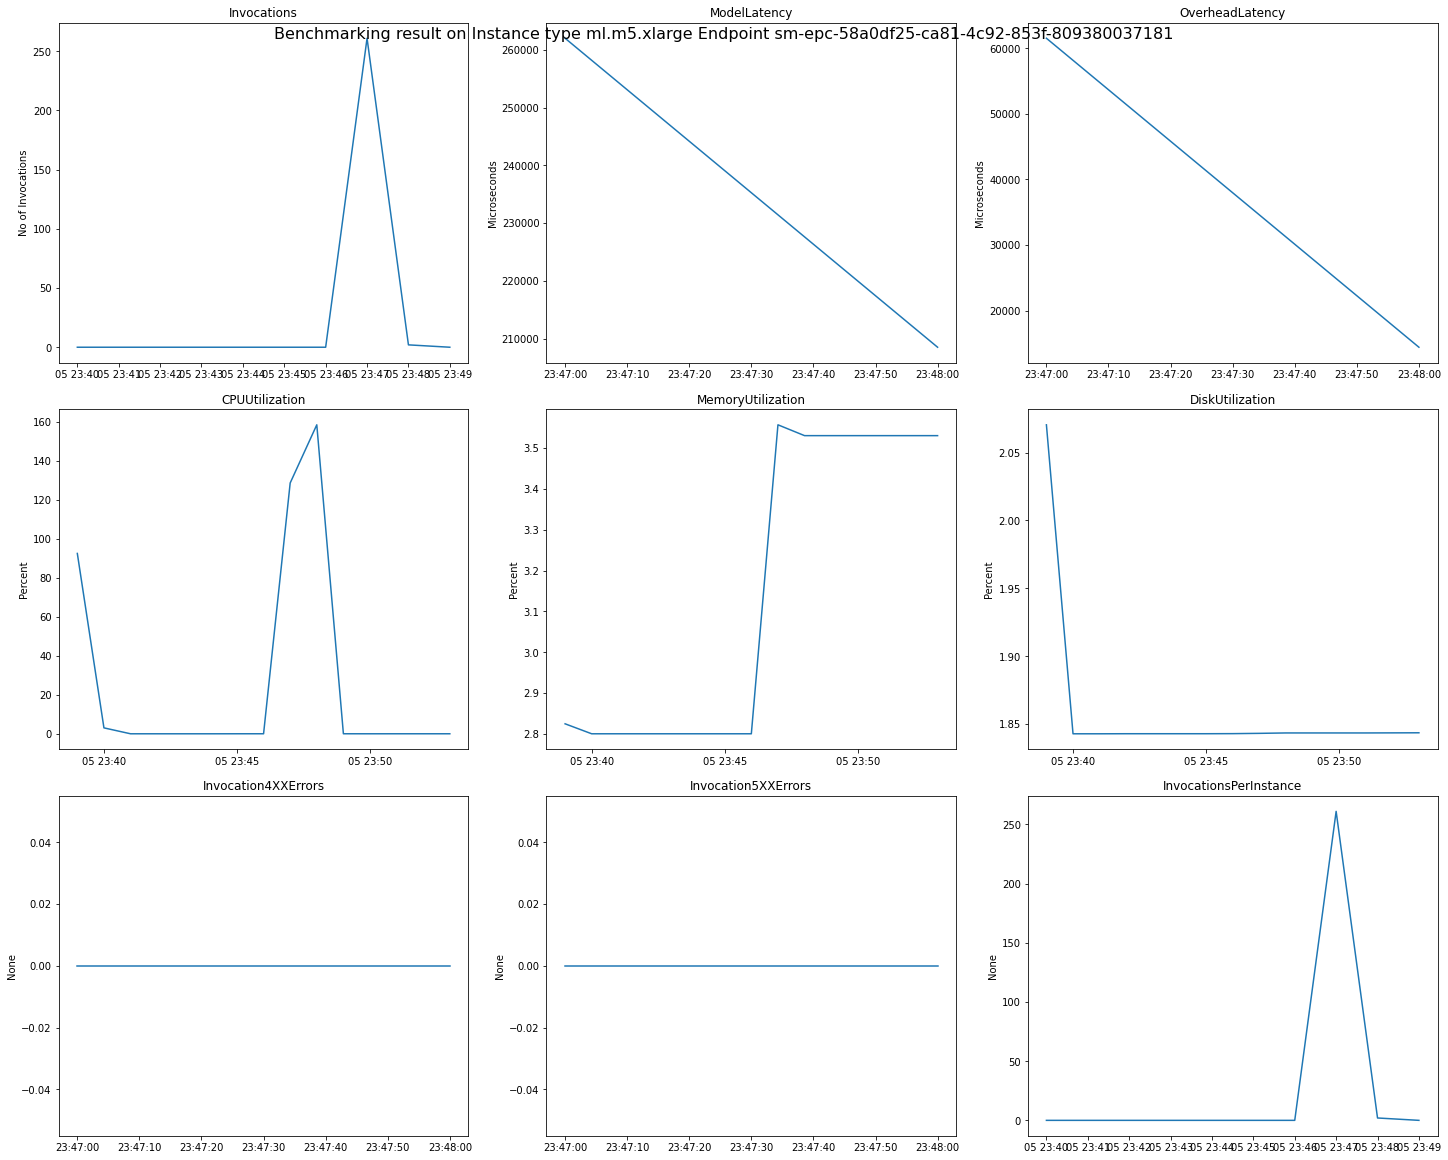
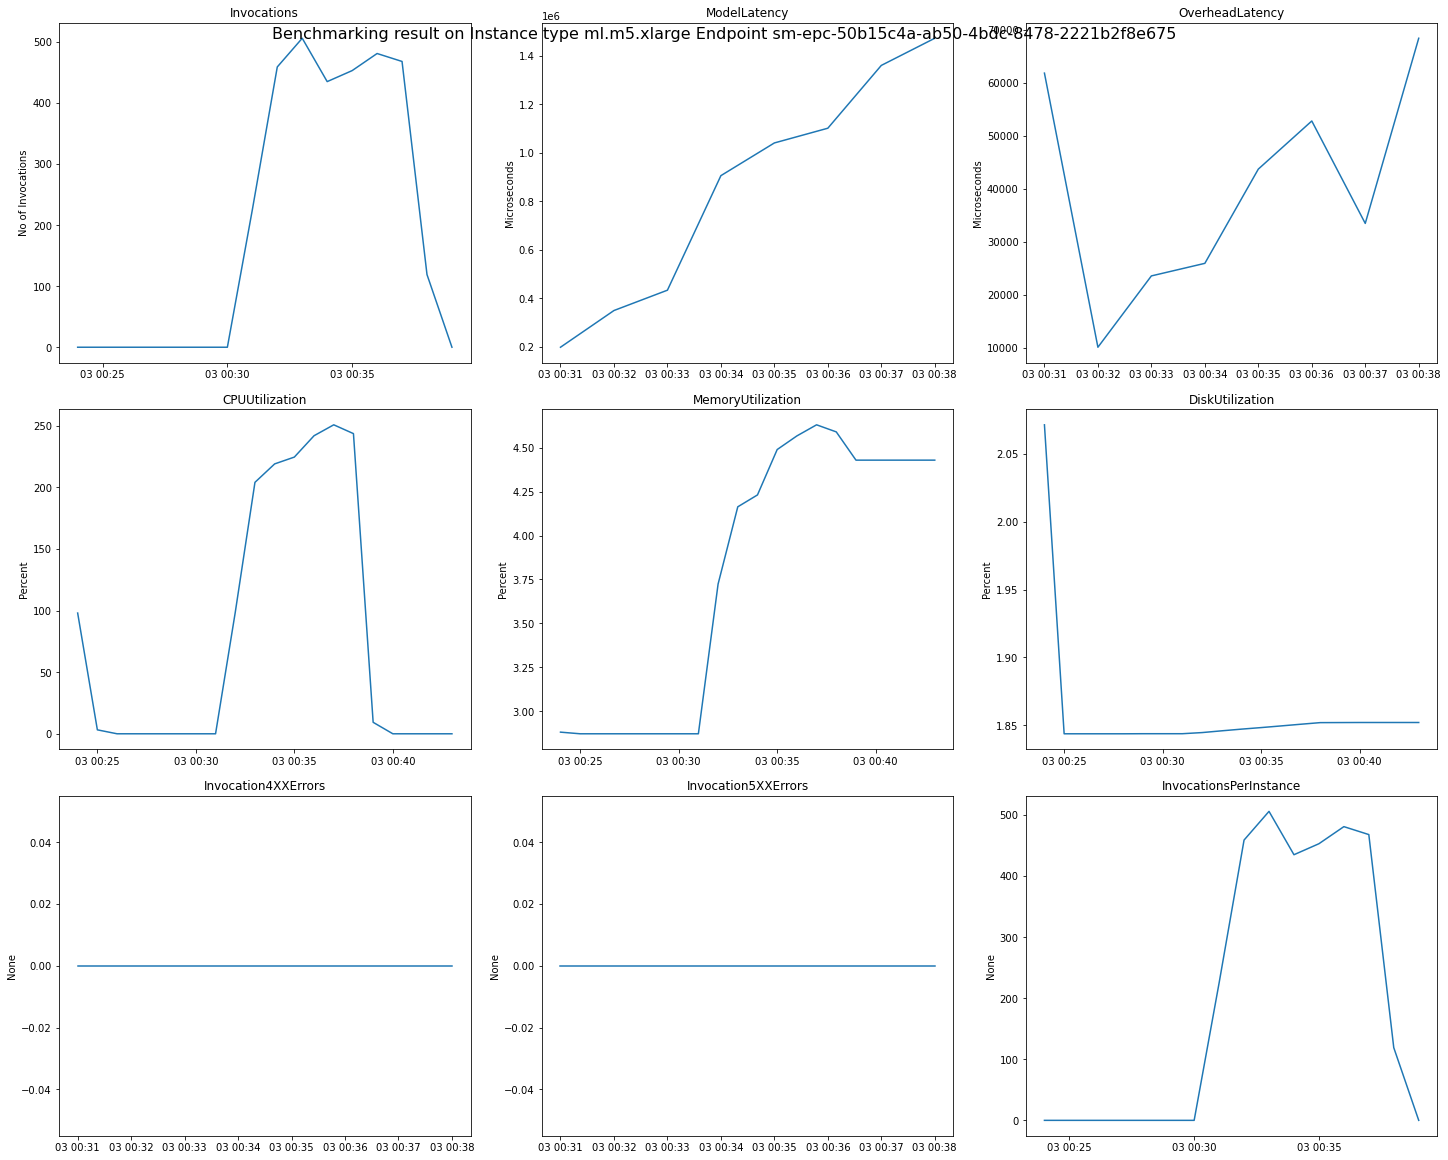
changed kernel to tf2 and fixed bug in cloudwatch.py

diff --git a/sagemaker-inference-recommender/tensorflow-cloudwatch/cloudwatch.py b/sagemaker-inference-recommender/tensorflow-cloudwatch/cloudwatch.py
@@ -146,7 +146,7 @@ def get_cw_metrics(cw_client, endpoint_name, variant_name, metrics_name, start_t
         print(f'Both ExtendedStatistics & Statistics are None')
         exit(0)
 
-     return cw_data
+    return cw_data
 
 
 def get_x_from_datapoints(datapoints):
@@ -197,7 +197,7 @@ def get_endpoint_metrics(sm_client, cw_client, region, job_name, include_plots=F
     for record in df.to_dict('records'):
         if include_plots:
             fig = plt.figure(figsize=(20, 16), constrained_layout=True)
-            fig.suptitle(f"Benchmarking result on Instance type {record['InstanceType']} Endpoint {record['EndpointName']}",
+            fig.suptitle(f"Instance type {record['InstanceType']} Endpoint {record['EndpointName']}",
                          fontsize=16)
             spec = gridspec.GridSpec(ncols=3, nrows=3, figure=fig)
             f_ax1 = fig.add_subplot(spec[0, 0])
